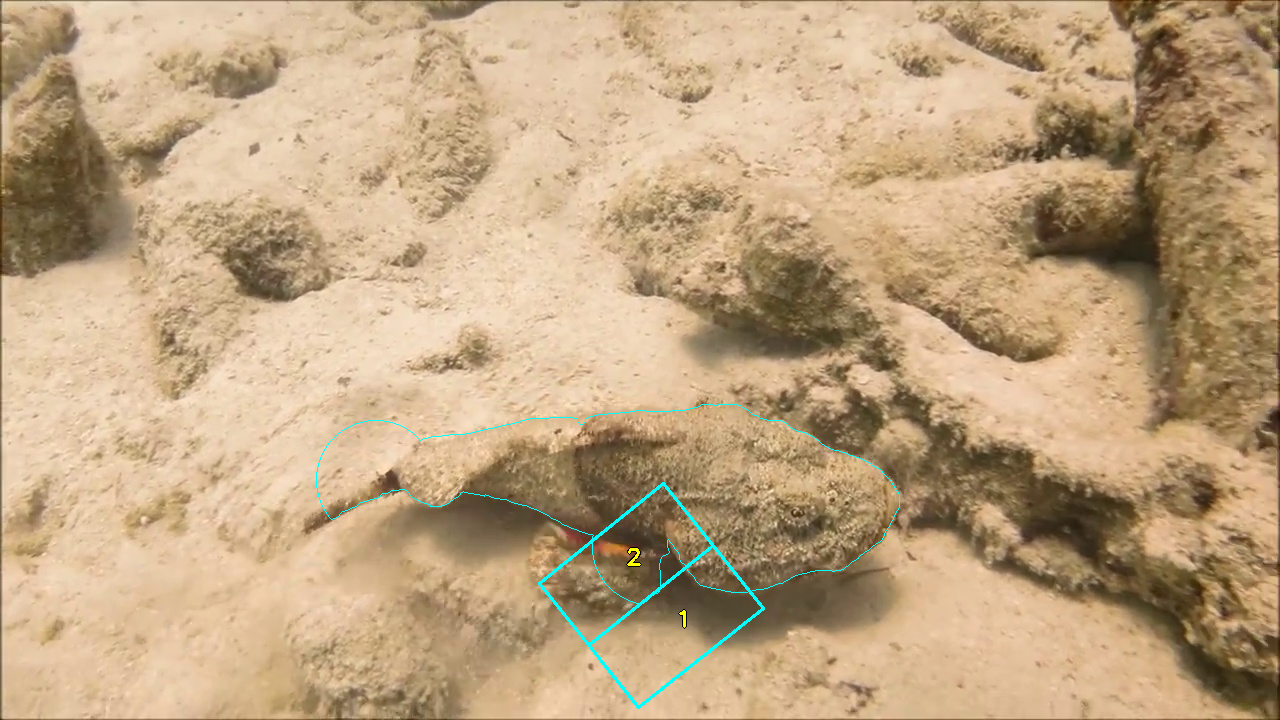
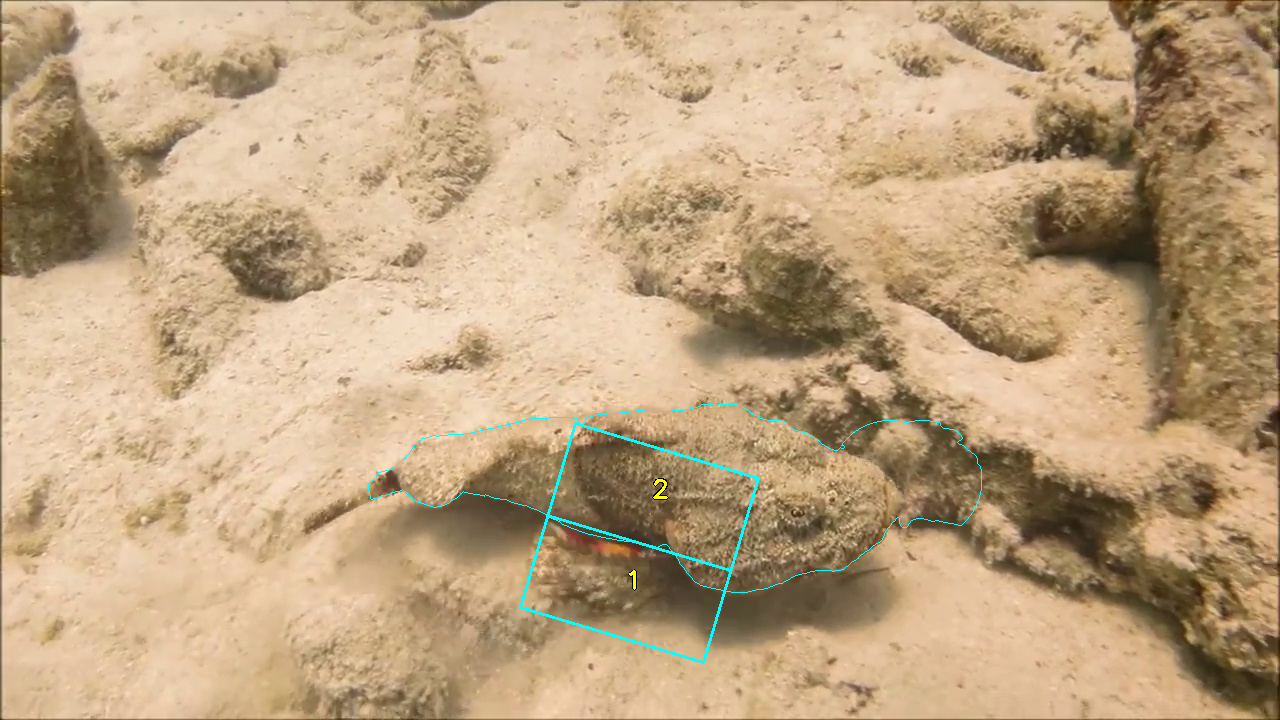
每次仅仅选择一个点进行，但是还存在门控区域的问题

diff --git a/src/sculptor/vlm/prompts.py b/src/sculptor/vlm/prompts.py
@@ -11,10 +11,10 @@ def build_anchor_prompt(
     global_reason: Optional[str] = None,
     *,
     semantic: Optional[SemanticCtx] = None,
-    K: int = 3
+    K: int = 1
 ) -> Dict[str, str]:
     """
-    不改变原有返回结构；新增 semantic 语义块与 K（最多返回多少个 anchor）
+    默认每次只选择一个最重要的锚点，避免多个锚点同时优化导致的复杂性
     semantic 可包含键：
       - synonyms, salient_cues, distractors, shape_prior, texture_prior, scene_context, not_target_parts
     """
@@ -43,13 +43,19 @@ Environment: {sem.get('scene_context') or "unknown"}
 Avoid including: {_fmt_list(sem.get('not_target_parts'))}
 
 CURRENT STATE: Green overlay shows the current mask. Anchors 1..8 mark potential refinement points.
-TASK: Select up to {K} anchors where the camouflaged {instance} boundary needs correction.
+TASK: Select EXACTLY ONE anchor - the MOST CRITICAL point where the camouflaged {instance} boundary needs correction.
+
+PRIORITY STRATEGY: Choose the single anchor that will have the MAXIMUM IMPACT on segmentation quality:
+1) MOST OBVIOUS ERROR: Prefer anchors at locations with clear boundary mistakes (major leaks or missing parts)
+2) HIGHEST CONFIDENCE: Select the anchor where you are most certain about the correction needed
+3) BIOLOGICAL IMPORTANCE: Favor anchors at anatomically significant boundaries (head, fins, limbs)
+4) LARGEST IMPROVEMENT: Choose the anchor that will correct the most pixels with one refinement
 
 For CAMOUFLAGED targets, focus on:
-1) Subtle texture transitions - look for slight differences in pattern/grain between target and background
-2) Biological boundaries - camouflaged animals often have natural body contours despite blending
-3) Depth/shadow cues - slight 3D form indicators that reveal the hidden shape
-4) Consistency - camouflaged parts should connect logically to already-identified portions
+- Subtle texture transitions - look for slight differences in pattern/grain between target and background
+- Biological boundaries - camouflaged animals often have natural body contours despite blending
+- Depth/shadow cues - slight 3D form indicators that reveal the hidden shape
+- Consistency - camouflaged parts should connect logically to already-identified portions
 
 Decision criteria (DO NOT OUTPUT):
 - LEAK: Green mask extends onto clear background patterns that don't belong to the {instance}
@@ -64,15 +70,16 @@ Return JSON STRICTLY:
   ]
 }}
 Constraints:
-- 1 <= len(anchors_to_refine) <= {max(1, K)}
+- EXACTLY ONE anchor in the array (len(anchors_to_refine) == 1)
 - Use only ids from 1..8
 - Keep justifications short; no lists or numbering; no quotes in the text
+- Choose the MOST IMPORTANT anchor, not just any suitable one
 
 Few-shot examples (DO NOT COPY, DO NOT ECHO; FORMAT ONLY):
-Input→ (leak suspected near rock ripples)
-Output→ {{"anchors_to_refine":[{{"id":3,"intent":"fix_leak","reason":"background ripples intrude"}},{{"id":7,"intent":"recover_miss","reason":"target texture continues"}}]}}
+Input→ (major leak suspected near rock ripples at anchor 3, minor issue at anchor 7)
+Output→ {{"anchors_to_refine":[{{"id":3,"intent":"fix_leak","reason":"background ripples intrude"}}]}}
 
-Input→ (only one doubtful area)
+Input→ (missing fin edge is most critical issue)
 Output→ {{"anchors_to_refine":[{{"id":5,"intent":"recover_miss","reason":"missing fin edge continuity"}}]}}
 """
     # 可选：把 global_reason 作为“全局上下文”补充

diff --git a/refactor_sam_sculpt.py b/refactor_sam_sculpt.py
@@ -660,7 +660,7 @@ def main():
     ap.add_argument('--name', default='f', help='sample name (e.g., f, dog, q)')
     ap.add_argument('--qwen_dir', default='/home/albert/code/CV/models/Qwen2.5-VL-3B-Instruct', help='Qwen2.5-VL model dir (3B recommended)')
     ap.add_argument('--rounds', type=int, default=4, help='refinement rounds')
-    ap.add_argument('--anchors_per_round', type=int, default=2, help='limit anchors per round to save VRAM')
+    # 移除anchors_per_round参数，因为现在VLM每次只选择一个最重要的锚点
     ap.add_argument('--ratio', type=float, default=0.8, help='square ratio to ROI short side for quadrant crop')
     ap.add_argument('--vlm_max_side', type=int, default=720, help='resize long side before sending to VLM (<=0 to disable)')
     args = ap.parse_args()
@@ -686,6 +686,7 @@ def main():
     output_dir = os.path.join(base_dir, 'outputs', 'refactor_sculpt', sample_name)
 
     print(f"=== 重构后的SAM分割流程 (样本: {sample_name}, 实例: {instance_name}) ===")
+    print("[优化策略] 使用单点优化策略: VLM每次只选择一个最重要的锚点进行精细优化")
 
     # 加载数据
     print("加载输入数据...")
@@ -721,9 +722,10 @@ def main():
         anchor_vis_vlm = _resize_for_vlm(anchor_vis, int(args.vlm_max_side))
         anchor_response = vlm.choose_anchors(anchor_vis_vlm, instance_name)
         selected_anchors = anchor_response.get('anchors_to_refine', [])
-        # 限制每轮最多处理的锚点数量
-        k = max(1, int(args.anchors_per_round))
-        selected_anchors = selected_anchors[:k]
+        # VLM现在应该只返回一个锁点，但保持兼容性，只取第一个
+        if len(selected_anchors) > 1:
+            print(f"[INFO] VLM返回了{len(selected_anchors)}个锚点，但只使用第一个最重要的")
+            selected_anchors = selected_anchors[:1]
 
         # Fallback: if VLM returns no anchors, use a default anchor to keep pipeline going
         if not selected_anchors:
